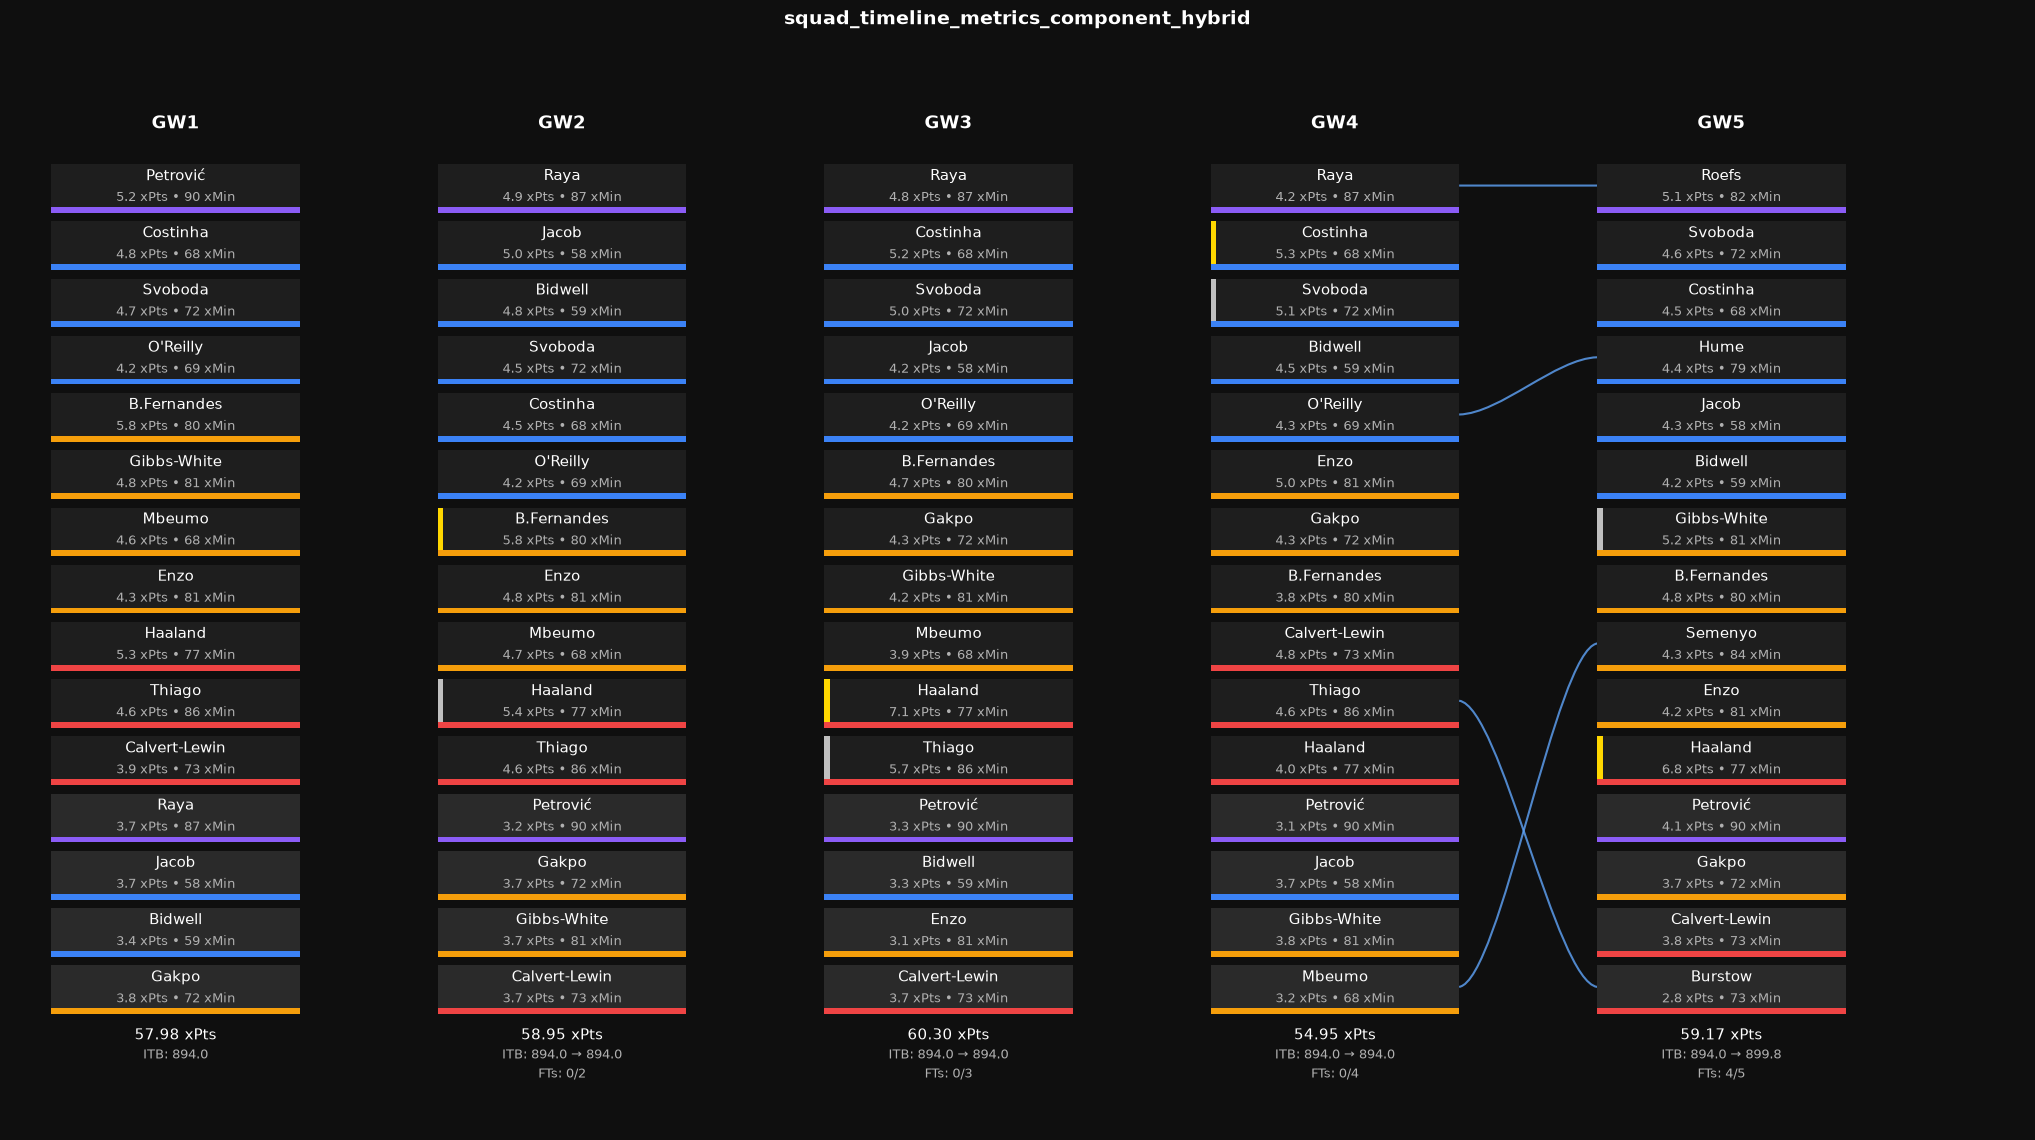
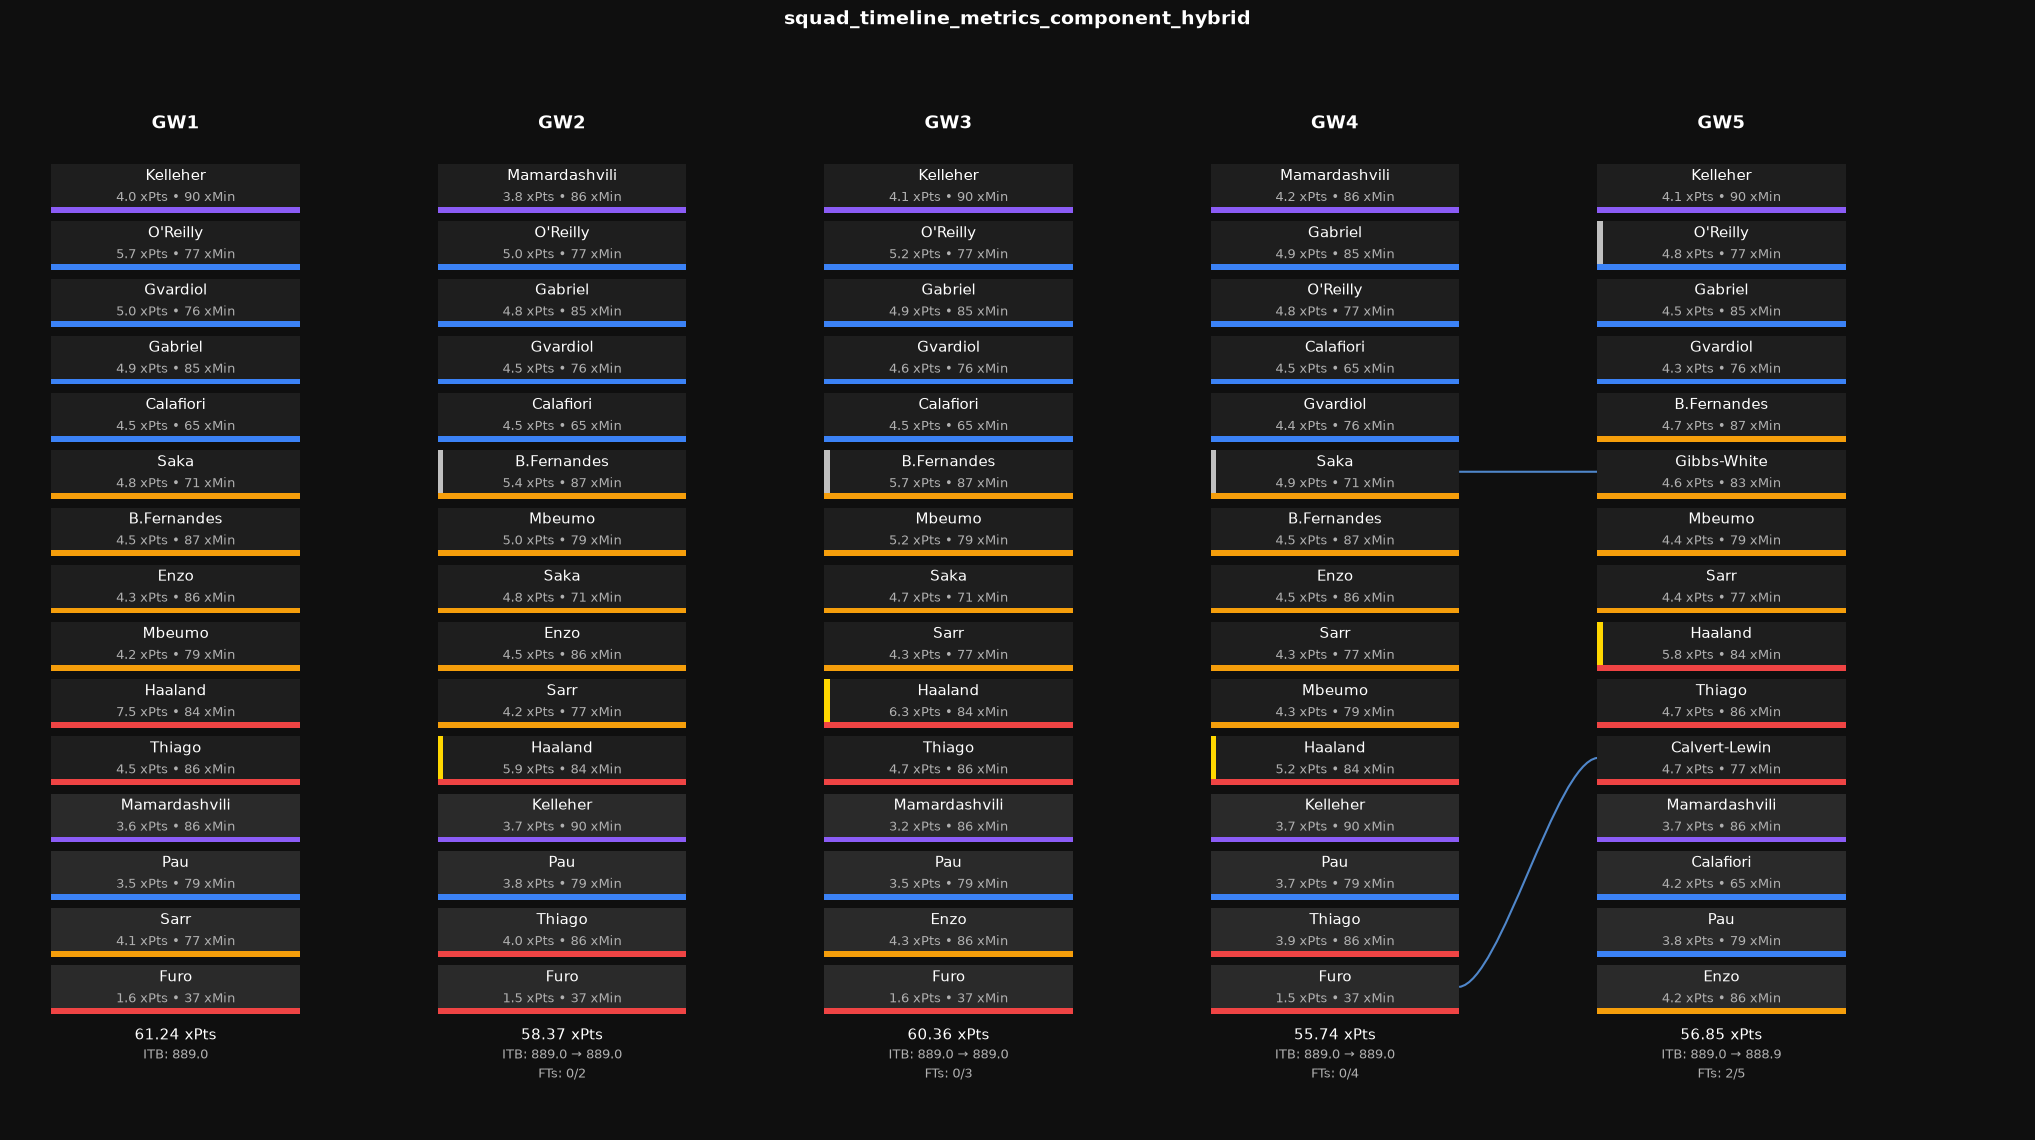
feat: add --target_gw support for solver and model commands and improve merge robustness using player codes

diff --git a/commands/run_model.py b/commands/run_model.py
@@ -40,6 +40,11 @@ def main():
         default=Path("data/availability_overrides.csv"),
         help="Optional CSV of source-attributed, expiring player xMins caps",
     )
+    parser.add_argument(
+        "--target_gw",
+        type=int,
+        help="Target Gameweek to start projections from (default: next unfinished GW or GW1)",
+    )
     args = parser.parse_args()
     
     processed_dir = PROJECT_ROOT / "data" / "processed"
@@ -48,21 +53,24 @@ def main():
         sys.exit(1)
         
     # Load gameweeks to determine next GW
-    try:
-        df_gw = pd.read_parquet(processed_dir / "gameweeks.parquet")
-        # Find next gameweek (is_next=True or first unfinished)
-        next_gw_row = df_gw[df_gw["is_next"]]
-        if not next_gw_row.empty:
-            target_gw = int(next_gw_row.iloc[0]["id"])
-        else:
-            unfinished = df_gw[~df_gw["finished"]]
-            if not unfinished.empty:
-                target_gw = int(unfinished.iloc[0]["id"])
+    if args.target_gw is not None:
+        target_gw = args.target_gw
+    else:
+        try:
+            df_gw = pd.read_parquet(processed_dir / "gameweeks.parquet")
+            # Find next gameweek (is_next=True or first unfinished)
+            next_gw_row = df_gw[df_gw["is_next"]]
+            if not next_gw_row.empty:
+                target_gw = int(next_gw_row.iloc[0]["id"])
             else:
-                target_gw = 38 # fallback
-    except Exception as e:
-        logger.warning(f"Failed to load gameweeks, falling back to GW 38: {e}")
-        target_gw = 38
+                unfinished = df_gw[~df_gw["finished"]]
+                if not unfinished.empty:
+                    target_gw = int(unfinished.iloc[0]["id"])
+                else:
+                    target_gw = 1 # preseason fallback
+        except Exception as e:
+            logger.warning(f"Failed to load gameweeks, falling back to GW 1: {e}")
+            target_gw = 1
         
     logger.info(f"Generating projections starting from target Gameweek {target_gw}...")
     

diff --git a/commands/solve.py b/commands/solve.py
@@ -235,6 +235,7 @@ def main() -> None:
     parser.add_argument("--decay_base", type=float, help="Decay multiplier for later gameweeks")
     parser.add_argument("--hit_cost", type=float, help="Points cost applied to each paid transfer")
     parser.add_argument("--preseason", action="store_true", help="Solve for a blank preseason squad selection")
+    parser.add_argument("--target_gw", type=int, help="Target Gameweek to start optimization from")
     args, unknown = parser.parse_known_args()
     
     # 1. Load configuration settings
@@ -260,19 +261,22 @@ def main() -> None:
     processed_dir = PROJECT_ROOT / "data" / "processed"
     
     # Load target gameweek from processed parquet
-    try:
-        df_gw = pd.read_parquet(processed_dir / "gameweeks.parquet")
-        next_gw_row = df_gw[df_gw["is_next"]]
-        if not next_gw_row.empty:
-            target_gw = int(next_gw_row.iloc[0]["id"])
-        else:
-            unfinished = df_gw[~df_gw["finished"]]
-            if not unfinished.empty:
-                target_gw = int(unfinished.iloc[0]["id"])
+    if args.target_gw is not None:
+        target_gw = args.target_gw
+    else:
+        try:
+            df_gw = pd.read_parquet(processed_dir / "gameweeks.parquet")
+            next_gw_row = df_gw[df_gw["is_next"]]
+            if not next_gw_row.empty:
+                target_gw = int(next_gw_row.iloc[0]["id"])
             else:
-                target_gw = 38
-    except Exception:
-        target_gw = 38
+                unfinished = df_gw[~df_gw["finished"]]
+                if not unfinished.empty:
+                    target_gw = int(unfinished.iloc[0]["id"])
+                else:
+                    target_gw = 1 if options.get("preseason", False) else 38
+        except Exception:
+            target_gw = 1 if options.get("preseason", False) else 38
         
     options["override_next_gw"] = target_gw
     

diff --git a/solver/solver.py b/solver/solver.py
@@ -135,11 +135,17 @@ def prep_data(my_data, options):
     max_players_from_team = Counter([element_to_team[x["element"]] for x in my_data["picks"]]).most_common(1)[0][1] if my_data["picks"] else 3
     data = read_data(options)
 
-    merged_data = pd.merge(elements_team, data, left_on="id_x", right_on="ID")
+    code_col = "code_x" if "code_x" in elements_team.columns else ("code" if "code" in elements_team.columns else None)
+    if code_col and "code" in data.columns:
+        merged_data = pd.merge(elements_team, data, left_on=code_col, right_on="code", suffixes=("", "_csv"))
+        if "ID" not in merged_data.columns and "id_x" in merged_data.columns:
+            merged_data["ID"] = merged_data["id_x"]
+    else:
+        merged_data = pd.merge(elements_team, data, left_on="id_x", right_on="ID")
     merged_data.set_index(["id_x"], inplace=True)
 
     # Drop duplicates
-    merged_data = merged_data.drop_duplicates(subset=["ID"], keep="first")
+    merged_data = merged_data.drop_duplicates(subset=[code_col if code_col else "ID"], keep="first")
 
     # Check if data exists
     for week in range(gw, min(39, gw + horizon)):

diff --git a/projections/exporter.py b/projections/exporter.py
@@ -47,7 +47,10 @@ def export_projections(
     df_pivoted = df_pivoted.reset_index().rename(columns={"player_id": "ID"})
     
     # 3. Merge metadata with pivoted predictions
-    df_out = df_players[["ID", "web_name", "Pos", "Price", "Team"]].merge(df_pivoted, on="ID", how="inner")
+    meta_cols = ["ID", "web_name", "Pos", "Price", "Team"]
+    if "code" in df_players.columns:
+        meta_cols.append("code")
+    df_out = df_players[meta_cols].merge(df_pivoted, on="ID", how="inner")
     df_out = df_out.rename(columns={"web_name": "Name"})
     
     # Save to CSV
